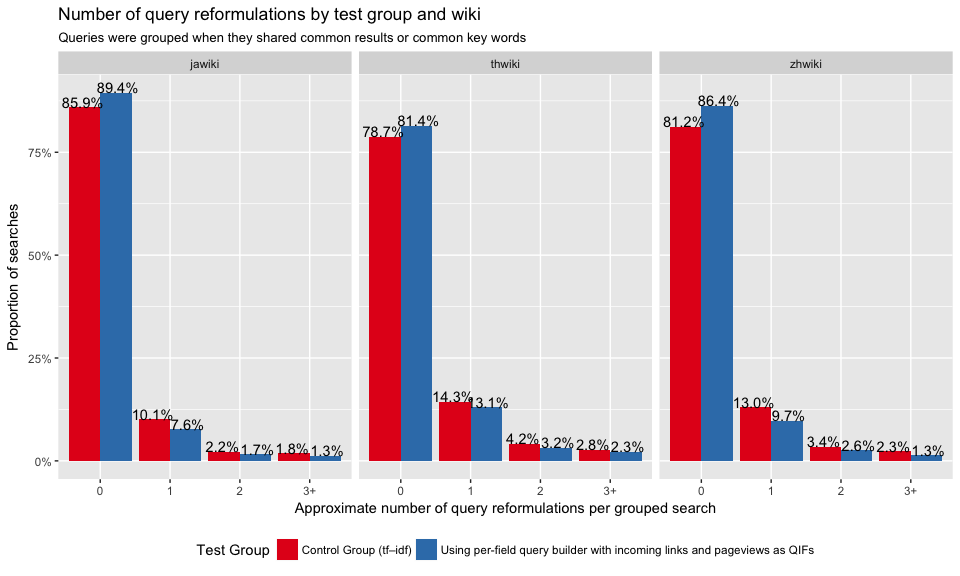
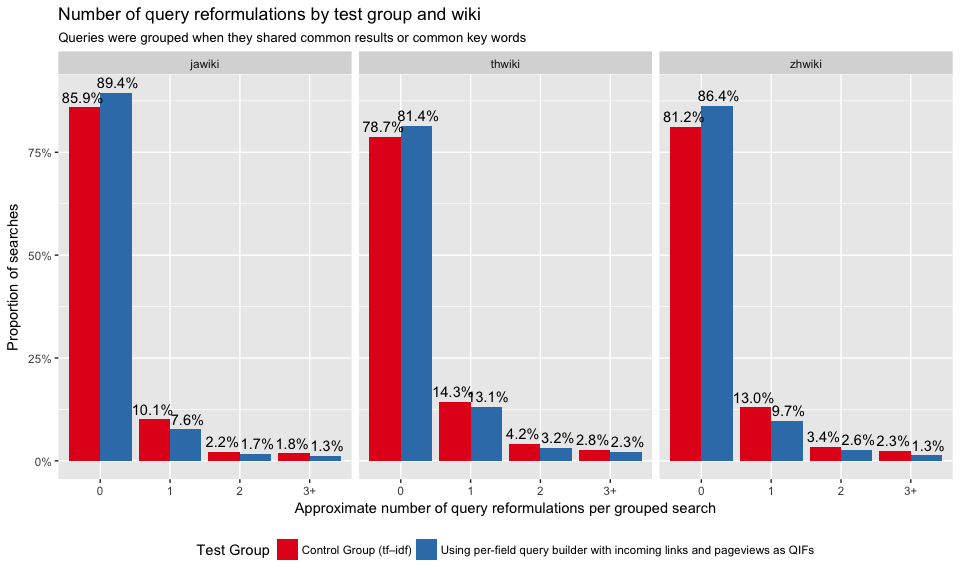
Final draft

diff --git a/docs/index.html b/docs/index.html
@@ -16,7 +16,7 @@
 <meta name="author" content="Deb Tankersley (Product Management)" />
 <meta name="author" content="Chelsy Xie (Analysis &amp; Report)" />
 
-<meta name="date" content="2017-01-03" />
+<meta name="date" content="2017-01-05" />
 
 <title>Second BM25 A/B Test Analysis</title>
 
@@ -278,14 +278,13 @@ div.tocify {
 
 
 <h1 class="title toc-ignore">Second BM25 A/B Test Analysis</h1>
-<h3 class="subtitle"><em>Second Draft</em></h3>
 <h4 class="author"><em><a href = 'https://meta.wikimedia.org/wiki/User:EBernhardson_(WMF)'>Erik Bernhardson</a> (Engineering)</em></h4>
 <h4 class="author"><em><a href = 'https://www.mediawiki.org/wiki/User:DCausse_(WMF)'>David Causse</a> (Engineering &amp; Report)</em></h4>
 <h4 class="author"><em><a href = 'https://meta.wikimedia.org/wiki/User:TJones_(WMF)'>Trey Jones</a> (Engineering &amp; Review)</em></h4>
 <h4 class="author"><em><a href = 'https://meta.wikimedia.org/wiki/User:MPopov_(WMF)'>Mikhail Popov</a> (Review)</em></h4>
 <h4 class="author"><em><a href = 'https://meta.wikimedia.org/wiki/User:DTankersley_(WMF)'>Deb Tankersley</a> (Product Management)</em></h4>
 <h4 class="author"><em><a href = 'https://meta.wikimedia.org/wiki/User:CXie_(WMF)'>Chelsy Xie</a> (Analysis &amp; Report)</em></h4>
-<h4 class="date"><em>03 January 2017</em></h4>
+<h4 class="date"><em>05 January 2017</em></h4>
 
 </div>
 
@@ -1184,7 +1183,7 @@ reform_times %&gt;%
 <span class="st">  </span><span class="kw">geom_bar</span>(<span class="dt">stat =</span> <span class="st">&quot;identity&quot;</span>, <span class="dt">position =</span> <span class="st">&quot;dodge&quot;</span>) +
 <span class="st">  </span><span class="kw">scale_y_continuous</span>(<span class="dt">labels =</span> scales::<span class="kw">percent_format</span>()) +
 <span class="st">  </span><span class="kw">scale_fill_brewer</span>(<span class="st">&quot;Test Group&quot;</span>, <span class="dt">palette =</span> <span class="st">&quot;Set1&quot;</span>, <span class="dt">guide =</span> <span class="kw">guide_legend</span>(<span class="dt">ncol =</span> <span class="dv">2</span>)) +
-<span class="st">  </span><span class="kw">geom_text</span>(<span class="kw">aes</span>(<span class="dt">label =</span> <span class="kw">sprintf</span>(<span class="st">&quot;%.1f%%&quot;</span>, <span class="dv">100</span> *<span class="st"> </span>proportion), <span class="dt">vjust =</span> <span class="st">&quot;bottom&quot;</span>),
+<span class="st">  </span><span class="kw">geom_text</span>(<span class="kw">aes</span>(<span class="dt">label =</span> <span class="kw">sprintf</span>(<span class="st">&quot;%.1f%%&quot;</span>, <span class="dv">100</span> *<span class="st"> </span>proportion), <span class="dt">vjust =</span> -<span class="fl">0.5</span>),
             <span class="dt">position =</span> <span class="kw">position_dodge</span>(<span class="dt">width =</span> <span class="dv">1</span>)) +
 <span class="st">  </span><span class="kw">labs</span>(<span class="dt">y =</span> <span class="st">&quot;Proportion of searches&quot;</span>, <span class="dt">x =</span> <span class="st">&quot;Approximate number of query reformulations per grouped search&quot;</span>,
        <span class="dt">title =</span> <span class="st">&quot;Number of query reformulations by test group&quot;</span>,
@@ -1201,7 +1200,7 @@ reform_times %&gt;%
 <span class="st">  </span><span class="kw">geom_bar</span>(<span class="dt">stat =</span> <span class="st">&quot;identity&quot;</span>, <span class="dt">position =</span> <span class="st">&quot;dodge&quot;</span>) +
 <span class="st">  </span><span class="kw">scale_y_continuous</span>(<span class="dt">labels =</span> scales::<span class="kw">percent_format</span>()) +
 <span class="st">  </span><span class="kw">scale_fill_brewer</span>(<span class="st">&quot;Test Group&quot;</span>, <span class="dt">palette =</span> <span class="st">&quot;Set1&quot;</span>, <span class="dt">guide =</span> <span class="kw">guide_legend</span>(<span class="dt">ncol =</span> <span class="dv">2</span>)) +
-<span class="st">  </span><span class="kw">geom_text</span>(<span class="kw">aes</span>(<span class="dt">label =</span> <span class="kw">sprintf</span>(<span class="st">&quot;%.1f%%&quot;</span>, <span class="dv">100</span> *<span class="st"> </span>proportion), <span class="dt">vjust =</span> <span class="st">&quot;bottom&quot;</span>),
+<span class="st">  </span><span class="kw">geom_text</span>(<span class="kw">aes</span>(<span class="dt">label =</span> <span class="kw">sprintf</span>(<span class="st">&quot;%.1f%%&quot;</span>, <span class="dv">100</span> *<span class="st"> </span>proportion), <span class="dt">vjust =</span> -<span class="fl">0.5</span>),
             <span class="dt">position =</span> <span class="kw">position_dodge</span>(<span class="dt">width =</span> <span class="dv">1</span>)) +
 <span class="st">  </span><span class="kw">labs</span>(<span class="dt">y =</span> <span class="st">&quot;Proportion of searches&quot;</span>, <span class="dt">x =</span> <span class="st">&quot;Approximate number of query reformulations per grouped search&quot;</span>,
        <span class="dt">title =</span> <span class="st">&quot;Number of query reformulations by test group and wiki&quot;</span>,
